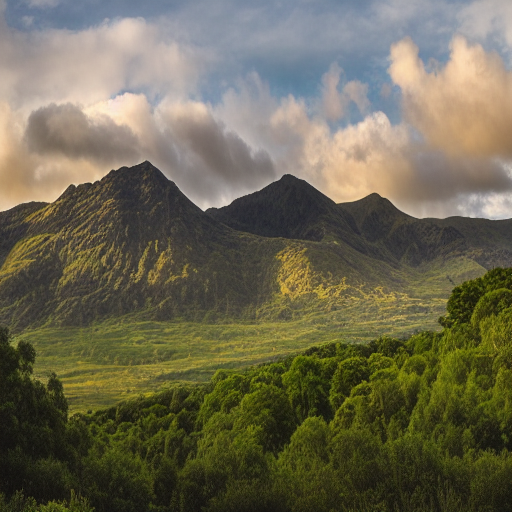
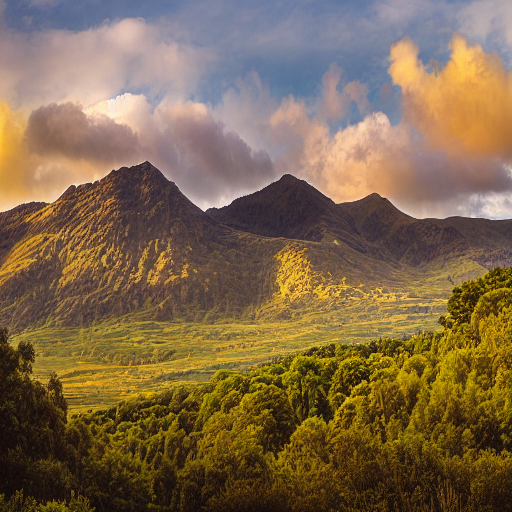
added images

diff --git a/applications/stable-diffusion/instruct-pix2pix/train_instruct_pix2pix.py b/applications/stable-diffusion/instruct-pix2pix/train_instruct_pix2pix.py
@@ -1,21 +1,3 @@
-#!/usr/bin/env python
-# coding=utf-8
-# Copyright 2023 The HuggingFace Inc. team. All rights reserved.
-#
-# Licensed under the Apache License, Version 2.0 (the "License");
-# you may not use this file except in compliance with the License.
-# You may obtain a copy of the License at
-#
-#     http://www.apache.org/licenses/LICENSE-2.0
-#
-# Unless required by applicable law or agreed to in writing, software
-# distributed under the License is distributed on an "AS IS" BASIS,
-# WITHOUT WARRANTIES OR CONDITIONS OF ANY KIND, either express or implied.
-# See the License for the specific language governing permissions and
-# limitations under the License.
-
-"""Script to fine-tune Stable Diffusion for InstructPix2Pix."""
-
 import argparse
 import logging
 import math

diff --git a/applications/stable-diffusion/instruct-pix2pix/image_to_image_inference.py b/applications/stable-diffusion/instruct-pix2pix/image_to_image_inference.py
@@ -87,6 +87,7 @@ def main():
 
 
     original_image = download_image(args.val_image_url)
+    original_image.save("original_image.png")
 
     image = pipeline(prompt, image=original_image, num_inference_steps=20,
                          image_guidance_scale=1.5,

diff --git a/applications/stable-diffusion/instruct-pix2pix/readme.md b/applications/stable-diffusion/instruct-pix2pix/readme.md
@@ -122,6 +122,11 @@ python image_to_image_inference.py --validation_prompts "the picture has some su
 ```
 
 Here is a demo how it looks like after using script train_instruct_pix2pix_colossal.py
+The Original Image is the following: 
+
+![png](original_image.png?raw=true "Optional Title")
+
+After transforming using trained pix2pix model: 
 
 ![png](stable_diffusion_example_colossalai.png?raw=true "Optional Title")
 
@@ -141,7 +146,7 @@ Thanks so much to all of our amazing contributors!
 
 ## Comments
 
-- Our codebase for the diffusion models builds heavily on [OpenAI's ADM codebase](https://github.com/openai/guided-diffusion)
+- Our codebase for the diffusion models builds heavily on [OpenAI's ADM codebase](https://github.com/openai/guided-diffusion) and [hugging_face diffusion](https://github.com/huggingface/diffusers/blob/main/examples/instruct_pix2pix/train_instruct_pix2pix.py)
 , [lucidrains](https://github.com/lucidrains/denoising-diffusion-pytorch),
 [Stable Diffusion](https://github.com/CompVis/stable-diffusion), [Lightning](https://github.com/Lightning-AI/lightning) and [Hugging Face](https://huggingface.co/CompVis/stable-diffusion).
 Thanks for open-sourcing!
